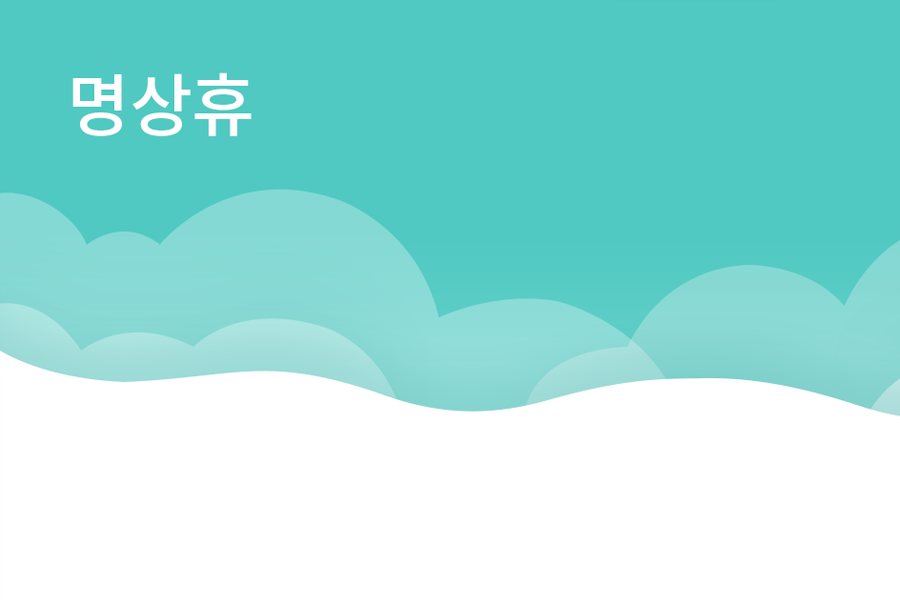
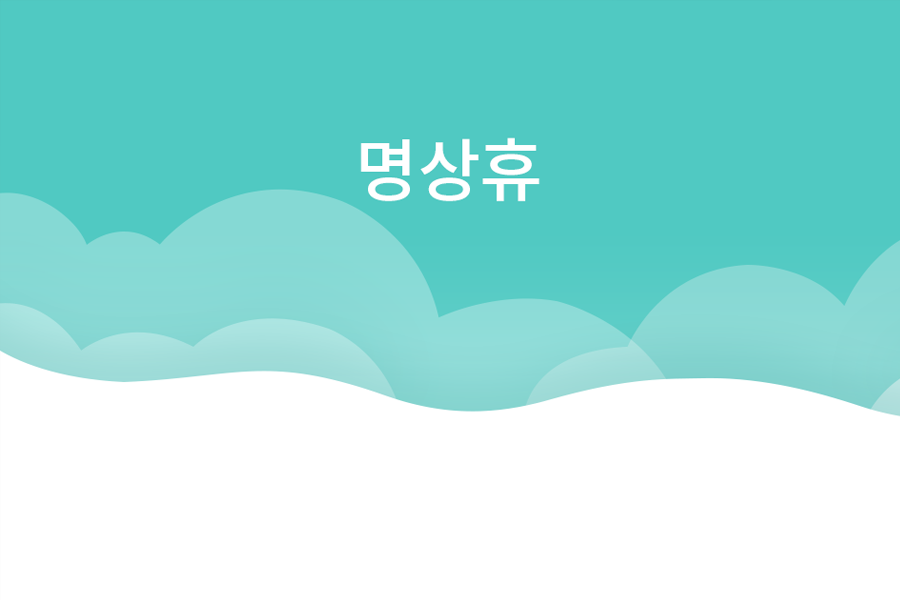
css 레이아웃 수정

Changed region(s): [[0.0622, 0.12, 0.28, 0.24], [0.3733, 0.24, 0.5911, 0.36]]

diff --git a/inc/css/style.css b/inc/css/style.css
@@ -38,6 +38,10 @@ body, .textareaWrap {
   overflow: hidden;
 }
 
+#wrap {
+  min-width: 1200px;
+}
+
 .header, .contents {
   position: relative;
   z-index: 1;

diff --git a/inc/scss/_common.scss b/inc/scss/_common.scss
@@ -1,4 +1,5 @@
 @import 'reset';
+#wrap {min-width:1200px;}
 .header, .contents {
 	position:relative;
 	z-index:1;
